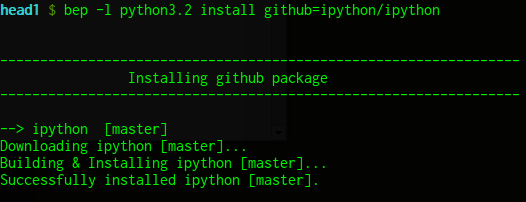
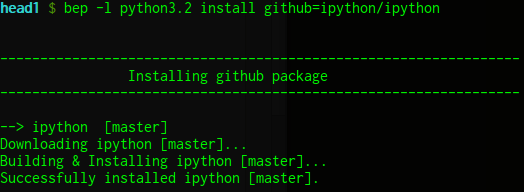
update imgs to go along with new readme

diff --git a/README.md b/README.md
@@ -64,9 +64,12 @@ For bitbucket, repo_type would need to be specified:
 
 And to install a specific branch:
 
-![](imgs/install_branch.png)
+![](imgs/install_branch_1.png)
 
-Oops...as you can see, in order to install another branch of ipython under the same version of python, the branch of ipython that was just installed previously needs to be turned off first.  After doing so, then we can proceed with installing the specified branch of ipython.
+Oops...as you can see, in order to install another branch of ipython under the same version of python, the branch of ipython that was just installed previously needs to be turned off first.  Then, after doing so, we can proceed with installing the specified branch of ipython.
+
+![](imgs/install_branch_2.png)
+
 
 Note though, we can install a version of ipython under a different version of python without needing to turn off anything because this will be the only branch of ipython installed under this version of python: 
 
